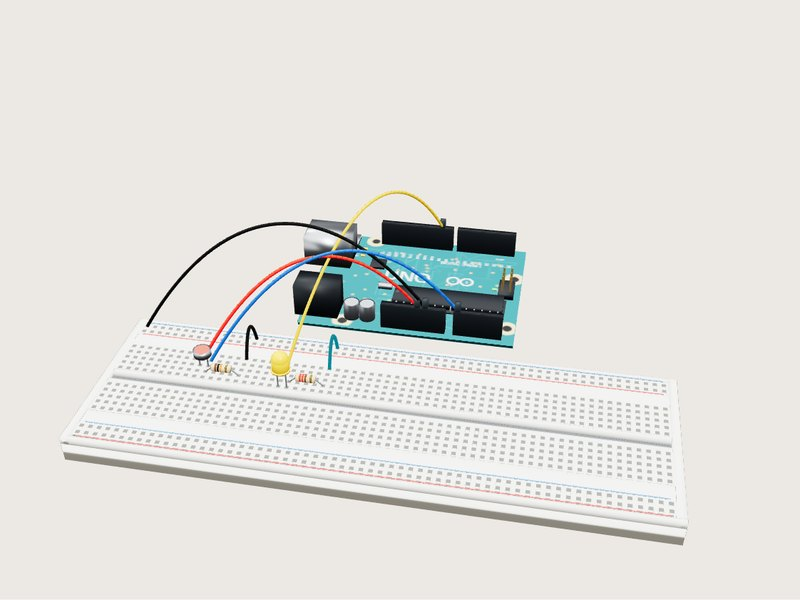
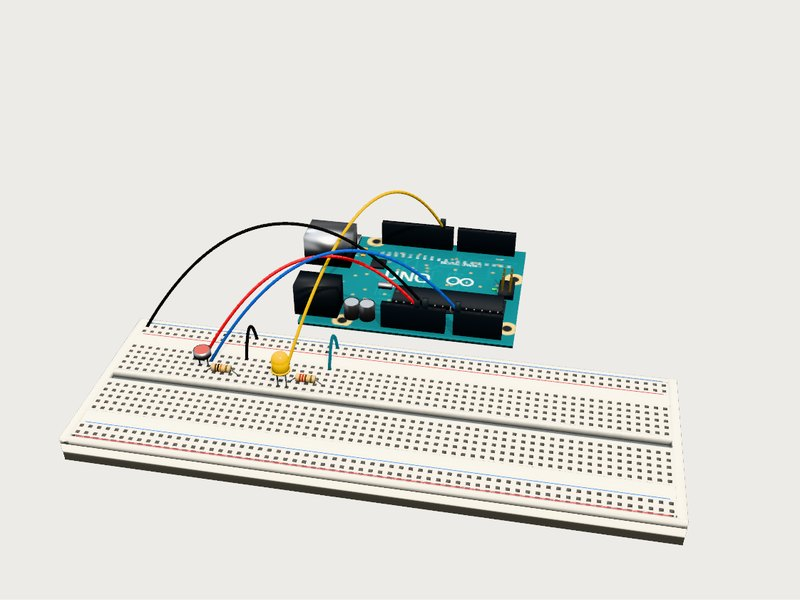
Studio look: soft shadows from a fitted key light, ambient occlusion, neutral tone mapping; guide cards re-rendered

Changed region(s): [[0.0625, 0.33, 0.875, 0.93], [0.4688, 0.3, 0.5312, 0.33]]

diff --git a/viewer/src/components/BenchModel.tsx b/viewer/src/components/BenchModel.tsx
@@ -8,6 +8,8 @@ import { Suspense, useEffect, useMemo, useRef, useState } from 'react'
 import * as THREE from 'three'
 import { Canvas, type ThreeEvent } from '@react-three/fiber'
 import { Bounds, Environment, Html, Lightformer, OrbitControls, useGLTF } from '@react-three/drei'
+import { EffectComposer, N8AO, ToneMapping } from '@react-three/postprocessing'
+import { ToneMappingMode } from 'postprocessing'
 import type { BenchModel as Model, WireInfo } from '../api'
 import './BenchModel.css'
 
@@ -51,6 +53,7 @@ function hitZone(mesh: THREE.Mesh): THREE.Mesh {
   g.computeBoundingSphere()
   const hit = new THREE.Mesh(g, HIT)
   hit.name = `${mesh.userData.part}__hit`
+  hit.visible = false // still clickable (raycasts ignore visibility), but kept out of the ambient-occlusion depth pass
   hit.userData.part = mesh.userData.part
   return hit
 }
@@ -112,23 +115,26 @@ function Scene({
   highlight,
   look,
   onPick,
+  onBox,
 }: {
   model: Model
   picked: string | null
   highlight: string[]
   look: Look
   onPick: (id: string | null) => void
+  onBox: (box: THREE.Box3) => void // the studio light sits outside <Bounds>, or its floor would be framed too
 }) {
   const gltf = useGLTF(model.glb)
   const ids = useMemo(() => model.labels.map((l) => l.id), [model.labels])
   const wireIds = useMemo(() => model.labels.filter((l) => l.kind === 'wire').map((l) => l.id), [model.labels])
-  const { root, meshes } = useMemo(() => {
+  const { root, meshes, box } = useMemo(() => {
     const root = gltf.scene.clone(true)
     root.updateMatrixWorld(true)
     const meshes: THREE.Mesh[] = []
     root.traverse((o) => {
       const mesh = o as THREE.Mesh
       if (!mesh.isMesh) return
+      mesh.castShadow = mesh.receiveShadow = true
       // The bench GLBs carry positions and vertex colours only; lighting needs normals.
       if (!mesh.geometry.attributes.normal) mesh.geometry.computeVertexNormals()
       // trimesh writes sRGB vertex colours; three.js expects linear ones (else everything looks washed out).
@@ -165,7 +171,7 @@ function Scene({
       mesh.userData.wire = wireIds.includes(mesh.userData.part as string)
       if (mesh.userData.wire) mesh.add(hitZone(mesh))
     }
-    return { root, meshes }
+    return { root, meshes, box: new THREE.Box3().setFromObject(root) }
   }, [gltf, ids, wireIds])
 
   useEffect(() => {
@@ -186,6 +192,7 @@ function Scene({
       }
     }
   }, [meshes, picked, highlight, look])
+  useEffect(() => onBox(box), [box, onBox])
 
   return (
     <>
@@ -195,6 +202,44 @@ function Scene({
           e.stopPropagation()
           onPick((e.object.userData.part as string | null) ?? null)
         }}
+      />
+    </>
+  )
+}
+
+/** Studio look, as Flatpack lights its room: one warm key light casting soft shadows (its shadow camera
+ * fitted to this model, so a 7 cm breadboard and a 50 cm pendulum both get crisp ones) onto the parts. No floor:
+ * a shadow-catching floor drew a pale arc behind the model. */
+function StudioLight({ box }: { box: THREE.Box3 }) {
+  const light = useRef<THREE.DirectionalLight>(null)
+  const c = box.getCenter(new THREE.Vector3())
+  const size = box.getSize(new THREE.Vector3())
+  const r = Math.max(size.x, size.y, size.z) * 0.75 + 0.01
+  useEffect(() => {
+    const l = light.current
+    if (!l) return
+    l.target.position.copy(c)
+    l.target.updateMatrixWorld()
+    l.shadow.camera.updateProjectionMatrix()
+  })
+  return (
+    <>
+      <directionalLight
+        ref={light}
+        castShadow
+        position={[c.x + r * 0.9, c.y + r * 2.2, c.z + r * 1.3]}
+        intensity={2.6}
+        color="#fff4e8"
+        shadow-mapSize={[2048, 2048]}
+        shadow-bias={-0.0004}
+        shadow-normalBias={r * 0.002}
+        shadow-radius={4}
+        shadow-camera-left={-r * 1.4}
+        shadow-camera-right={r * 1.4}
+        shadow-camera-top={r * 1.4}
+        shadow-camera-bottom={-r * 1.4}
+        shadow-camera-near={r * 0.1}
+        shadow-camera-far={r * 6}
       />
     </>
   )
@@ -212,6 +257,7 @@ export function BenchModel({ model, guide = {}, wires = {}, highlight = [], heig
   const [picked, setPicked] = useState<string | null>(null)
   const [view, setView] = useState({ n: 0, top: false }) // a new n remounts the canvas at that view
   const [look, setLook] = useState<Look>('studio')
+  const [bounds, setBounds] = useState<THREE.Box3 | null>(null)
   const label = model.labels.find((l) => l.id === picked)
   const wire = picked ? wires[picked] : undefined
   const parts = model.labels.filter((l) => l.kind !== 'wire')
@@ -234,24 +280,33 @@ export function BenchModel({ model, guide = {}, wires = {}, highlight = [], heig
           key={view.n}
           camera={{ fov: 35, near: 0.001, far: 50, position: view.top ? [0, 0.34, 0.001] : [0.05, 0.22, 0.24] }}
           dpr={[1, 2]}
+          shadows="soft"
           onPointerMissed={() => setPicked(null)}
         >
-          <color attach="background" args={[look === 'drawing' ? '#ffffff' : '#ece9e4']} />
-          <hemisphereLight args={['#ffffff', '#b9b4ae', 1.7]} />
-          <directionalLight position={[1, 2, 1.5]} intensity={2} />
-          <directionalLight position={[-1.5, 1, -1]} intensity={0.7} />
+          <color attach="background" args={[look === 'drawing' ? '#ffffff' : look === 'studio' ? '#f7f5f1' : '#ece9e4']} />
+          <hemisphereLight args={['#ffffff', '#b9b4ae', look === 'studio' ? 0.6 : 1.7]} />
+          {look !== 'studio' && <directionalLight position={[1, 2, 1.5]} intensity={2} />}
+          <directionalLight position={[-1.5, 1, -1]} intensity={look === 'studio' ? 0.5 : 0.7} />
           {/* A soft studio for metal parts to reflect (built here, nothing downloaded). */}
-          <Environment resolution={128}>
+          <Environment resolution={128} environmentIntensity={look === 'studio' ? 0.7 : 1}>
             <Lightformer intensity={2} position={[0, 4, 0]} rotation-x={Math.PI / 2} scale={[8, 8, 1]} />
             <Lightformer intensity={1} position={[-4, 1, 2]} rotation-y={Math.PI / 2} scale={[6, 3, 1]} />
             <Lightformer intensity={0.6} position={[4, 1, -2]} rotation-y={-Math.PI / 2} scale={[6, 3, 1]} />
           </Environment>
           <Suspense fallback={null}>
             <Bounds fit observe margin={1.15}>
-              <Scene model={model} picked={picked} highlight={highlight} look={look} onPick={setPicked} />
+              <Scene model={model} picked={picked} highlight={highlight} look={look} onPick={setPicked} onBox={setBounds} />
             </Bounds>
+            {look === 'studio' && bounds && <StudioLight box={bounds} />}
             {wire && <WireMarkers wire={wire} />}
           </Suspense>
+          {look === 'studio' && (
+            // ambient occlusion darkens corners and the gaps between parts, so shapes read even in shadow
+            <EffectComposer multisampling={4}>
+              <N8AO aoRadius={0.012} distanceFalloff={0.6} intensity={2.2} halfRes />
+              <ToneMapping mode={ToneMappingMode.NEUTRAL} />
+            </EffectComposer>
+          )}
           <OrbitControls makeDefault minDistance={0.01} maxDistance={5} zoomSpeed={0.8} />
         </Canvas>
         <div className="bench-tools">

diff --git a/README.md b/README.md
@@ -73,6 +73,7 @@ Not covered yet: Pico sketches aren't compiled (the guide says so), and no gener
 
 ## Updates
 
+- **Oct 20, 2026:** Studio lighting like Flatpack's: a warm key light with soft shadows fitted to each model, ambient occlusion (N8AO), neutral tone mapping and a dimmer sky light, for every guide (breadboard and CAD). Guide cards re-rendered.
 - **Oct 20, 2026:** Breadboard guides' 3D models look like the real parts: an Uno with a drawn PCB (silkscreen with the real pin labels, traces, logo), headers at the real pin positions (wires land on the right pin), a DIP chip, metal USB-B, capacitors and ICSP header; bare-metal leads, glossy LEDs, resistors with colour bands for their value, real part colours. The guide cards are re-rendered from these models. Removed the contact shadow and the "checked automatically" line (failed checks and warnings still show).
 - **Oct 20, 2026:** ESP32 and Teensy sketches are compiled too. Hardware/CAD guides get the power and motor-driver checks (stall current vs driver rating, supply peaks). The 3D view has Studio, Even light and Drawing looks, with a soft shadow under the model, and steps show parts and wires placed so far ([ and ] step through the guide). Ideas taken from Flatpack's interactive IKEA-style manuals. Fixed a crash on the Build page in newer Chrome.
 - **Oct 20, 2026:** Power and current checks, with supply voltage, current and driver data on 55 library parts. The breadboard 3D model and step pictures use real column spacing (the e-f gap was drawn 12.7 mm wide instead of 7.62 mm).
